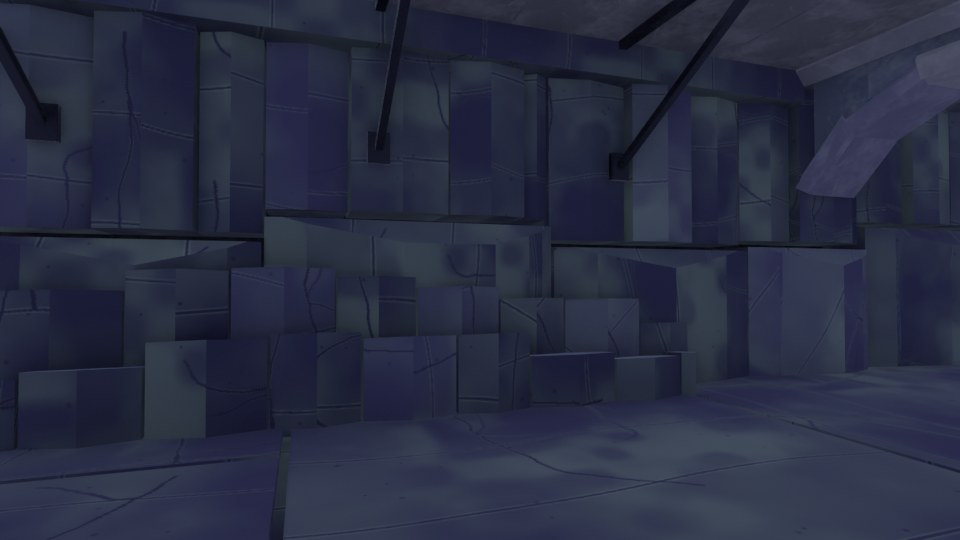
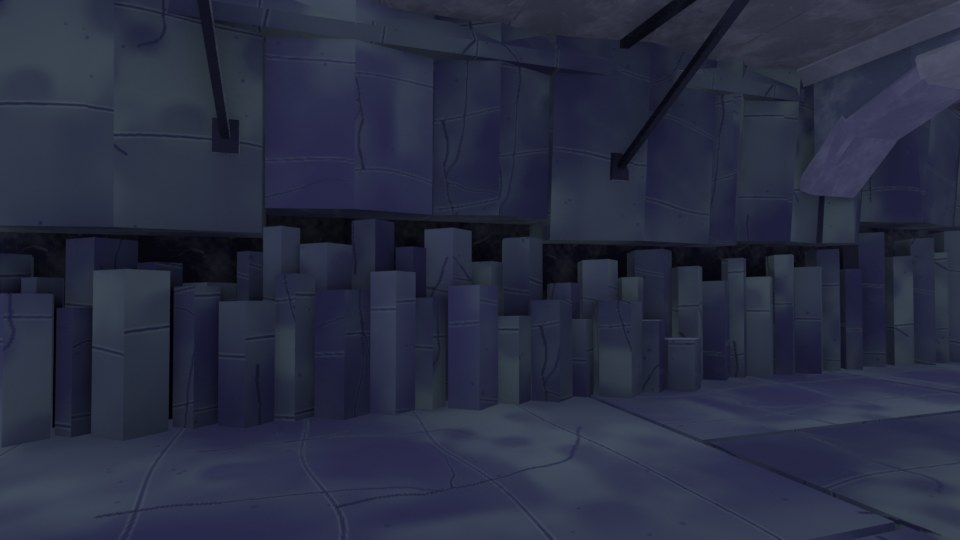
Ilha 3 finesse3: Salao Sombrio concluido (agente C)
Rocha, cantaria e remates em 3 valores que leem no modo Roblox; 6 luzes
com funcao (portal, forja, mapa, patamar, galeria, poco); abobada de
rocha em estratos e bolsas no lugar dos triangulos; faixa do jogador em
basalto colunar de prismas pentagonais com topos em degraus e juntas
escuras; arcos-diafragma ancorados; caracol e escadaria com degraus de
pedra, focinho e espelho escuro; guarda-corpo de pedra e madeira; forja,
sala do mapa, portal em 3 camadas e base secreta com funcao. Zona cave
69.858/70.000 tris; build OK (ilha 869.427 tris) e QA verde.

Claude-Session: https://claude.ai/code/session_012BgKANZEUaMLtrqiobzfLM

diff --git a/ilha_shadowgarden/sg_cave.py b/ilha_shadowgarden/sg_cave.py
@@ -76,7 +76,8 @@ OB, MBK, BI, WD = "Stone_SG_Obsidian", "Stone_SG_MarbleBlack", "Metal_SG_BlackIr
 CL, PALE, GLW, CORE = "Cloth_SG_Purple", "Stone_SG_MoonPale", "Lantern_Glow", "SG_LampCore_Glow"
 VG, VGM, VOID, CRY, CRYG = ("SG_VioletDeep_Glow", "SG_VioletSoft_Glow", "SG_CaveVoid_Glow", "Crystal_SGCave",
                             "SG_VioletSoft_Glow")                           # Neon medio/escuro (nada claro: bloom)
-STRAW = "Plaster_SG"                                                        # palha dos bonecos de treino
+STRAW = "Dirt_SGGravel"                                                     # palha dos bonecos de treino (medio quente)
+PARCH = "Plaster_SG"                                                        # pergaminho dos rolos
 
 X0, Y0, X1, Y1 = L.CAVE
 ZF, ZT = L.CAVE_FLOOR, L.CAVE_TOP
@@ -416,7 +417,7 @@ WALLS = {"W": ((X0, Y0), (0.0, 1.0), (1.0, 0.0), Y1 - Y0), "E": ((X1, Y1), (0.0,
          "S": ((X1, Y0), (-1.0, 0.0), (0.0, 1.0), X1 - X0), "N": ((X0, Y1), (1.0, 0.0), (0.0, -1.0), X1 - X0)}
 BUNDLE_W = (12.4, 9.6, 14.8, 11.2, 16.0, 10.4, 13.6)   # feixes (ritmo dirigido)
 COL_W = (5.2, 3.4, 4.6, 2.9, 4.1, 3.6)                 # colunas dentro do feixe (larguras bem diferentes)
-COLW = (22.0, 29.6, 18.4, 26.0, 32.8, 20.2)            # massas altas
+COLW = (28.6, 38.5, 24.0, 33.8, 42.6, 26.3)            # massas altas (longe: poucas e grandes)
 ROW_HIGH = (13.4, 16.8, 14.6)
 Z_LOW, Z_HIGH, Z_ROCK_TOP = -13.5, 21.5, 43.4
 BACK = -3.4                                      # plano de fundo das fendas (atras da face da parede)
@@ -544,67 +545,108 @@ def col_prism(mb, side, a, b, pf, ridge, z0, z1, fm, tilt=0.0, pf_top=None):
     return 1
 
 
+# FAIXA DO JOGADOR (piso ate ~8, FINESSE 3 09.04 revisao): PRISMAS PENTAGONAIS de basalto encostados (aresta viva
+# para o salao: 2 faces de frente com luz diferente), diametros em MODULOS DIRIGIDOS de 1,2 a 2,4, topos em DEGRAUS de
+# 0,6 a 1,8 com a face de topo em Cliff_Rock_SG_Top (um valor acima do fuste) e algumas colunas RECUADAS 0,2 a 0,4: a
+# face lateral delas (Cliff_Rock_SG_Dark) e o V entre vizinhas fazem a junta escura. Sem bevel.
+DIAM = (1.9, 1.4, 2.3, 1.7, 2.1, 1.3, 2.4, 1.6, 2.0, 1.5, 2.2)
+HOFF = (0.0, 1.2, 0.3, 1.8, 0.6, 1.5, 0.0, 0.9, 1.7, 0.4, 1.1)     # degrau do topo (vizinhas diferem 0,6 a 1,8)
+REC = (0.0, 0.3, 0.0, 0.0, 0.4, 0.1, 0.0, 0.2, 0.0, 0.35, 0.0, 0.25, 0.0)   # recuo dirigido (junta escura)
+
+
+def pent_col(mb, side, sc, r, pf, z0, z1, fm, tilt=0.06):
+    """prisma PENTAGONAL de basalto com a aresta da frente em pf (para o salao), raio r, de z0 a z1 (topo inclinado
+    'tilt' para o fundo: a face de topo segue em Cliff_Rock_SG_Top)"""
+    if z1 - z0 < 0.6:
+        return 0
+    pc = pf - r
+    pts = []
+    for k in range(5):
+        a = 2.0 * math.pi * k / 5
+        s_, p_ = sc + r * math.sin(a), pc + r * math.cos(a)
+        pts.append(wall_pt(side, s_, p_, z0))
+        pts.append(wall_pt(side, s_, p_, z1 - tilt * (pf - p_)))
+    hull(mb, pts, RKD, fm)
+    return 1
+
+
+def pent_row(mb, side, s0, s1, k0, front, ztop, fm, z0=ZF - 0.3, rmax=9.0):
+    """fileira de prismas pentagonais encostados de s0 a s1; front(i, e) = aresta da frente, ztop(i, e) = topo
+    (e = 0..1, envelope do feixe); k0 = indice dirigido dos modulos"""
+    cols, s, k = [], s0, k0
+    while s < s1 - 0.6:
+        d = DIAM[k % len(DIAM)]
+        if s + d > s1:
+            d = s1 - s
+        cols.append((s + d / 2, d, k))
+        s, k = s + d, k + 1
+    n, nc = 0, len(cols)
+    for i, (sc, d, k) in enumerate(cols):
+        t = (i + 0.5) / nc * 2.0 - 1.0
+        e = 1.0 - abs(t) ** 1.6
+        r = min(d / 1.902, rmax)                      # o pentagono regular cobre d na tangente
+        n += pent_col(mb, side, sc, r, front(k, e), z0, ztop(k, e), fm)
+    return n
+
+
 def basalt_bundle(mb, side, bi, s0, s1, fm):
-    """FEIXE convexo de colunas: as do meio avancam ate a face de colisao, as pontas recuam 1,3; topos em degraus que
-    sobem para o meio; UMA diaclase (junta 0,4) continua no feixe, escalonada de feixe para feixe"""
+    """FEIXE: faixa baixa em prismas pentagonais encostados (ate a diaclase, ~ZF+5 a ZF+9,5) e, acima da diaclase,
+    colunas largas que sobem em degraus para o meio do feixe e se debrucam no alto"""
     if _skip(side, s0, s1):
         return 0
     ends = [wall_pt(side, s, 0.0, 0.0) for s in (s0, s1)]
     allow = min(p_allow(side, e.x, e.y, ZF + 1.0) for e in ends)      # na faixa do jogador
     zt_b = Z_HIGH - 1.0 + 4.0 * (_h(bi, 5, ord(side)) - 0.5)       # altura do feixe (18,5 .. 22,5)
     zj = ZF + 6.5 + 3.0 * _h(bi, 6, ord(side))                     # cota da diaclase
+    k0 = bi * 5 + ord(side)
+    mid = wall_pt(side, (s0 + s1) / 2, 0.0, 0.0)
+    if side in ("W", "E") and 131.0 < mid.y < 191.0:      # atras da fornalha/bancada e das estantes: so o fundo
+        hull(mb, [wall_pt(side, s, p_, z) for s in (s0, s1) for p_ in (BACK - 0.6, -0.4) for z in (ZF - 0.3, zj - 0.2)],
+             RKD, fm)
+        n = 1
+    else:
+        n = pent_row(mb, side, s0, s1, k0, lambda k, e: min(allow, 0.5) - 0.35 * (1.0 - e) - REC[k % len(REC)],
+                     lambda k, e: zj - 0.2 - HOFF[k % len(HOFF)], fm)
     cols, s, ci = [], s0, 0
     while s < s1 - 0.5:
-        w = COL_W[(ci + bi) % len(COL_W)]
+        w = COL_W[(ci + bi) % len(COL_W)] * 2.2                     # acima da diaclase: colunas largas (longe/alto)
+        if s1 - (s + w) < 2.0:
+            w = s1 - s
         cols.append((s, min(s1, s + w)))
         s, ci = s + w, ci + 1
-    n = 0
     nc = len(cols)
-    low = []
     for ci, (a, b) in enumerate(cols):
         t = (ci + 0.5) / nc * 2.0 - 1.0
         e = 1.0 - abs(t) ** 1.6
         pf = allow - 2.0 + 1.3 * e + 0.5 * (_h(ci, bi, 13) - 0.5)       # feixe convexo + saliencia propria
         ztop = zt_b + 2.6 * e + 0.9 * (_h(ci, bi, ord(side)) - 0.5)
         tilt = 0.12 + 0.1 * _h(ci, bi, 9)
-        for s, pp in ((a + 0.05, BACK - 0.6), (a + 0.05, pf + 0.3), ((a + b) / 2, pf + 0.75), (b - 0.05, pf + 0.3)):
-            low += [wall_pt(side, s, pp, ZF - 0.3), wall_pt(side, s, pp, zj - 0.2)]
-        a_top = min(p_allow(side, e.x, e.y, ztop) for e in ends) - 0.45     # a coluna se debruca onde a parede pode
-        n += col_prism(mb, side, a, b, pf - 0.3, 0.45, zj + 0.2, ztop, fm, tilt, min(a_top, pf + 5.5))
-    # BANCO macico sob a diaclase (um casco convexo por feixe, 0,3 mais saliente que as colunas, labio quebrado)
-    (ox, oy), tv, nv, ln = WALLS[side]
-    low = cut(low, Vector((nv[0], nv[1], 0.0)) + UPZ * 0.9, 0.7)
-    hull(mb, low, RKD, fm)
-    return n + 1
+        a_top = min(p_allow(side, e_.x, e_.y, ztop) for e_ in ends) - 0.45   # a coluna se debruca onde a parede pode
+        n += col_prism(mb, side, a, b, pf - 0.3, 0.9, zj + 0.2, ztop, fm, tilt, min(a_top, pf + 5.5))
+    return n
 
 
-# ORGAO DE BASALTO (a assinatura da ilha): 2 ordens de colunas NA FRENTE do feixe, descendo em degraus para o salao
-# (escada natural), onde o piso e livre. (lado, s0, s1, avanco maximo, altura)
+# ORGAO DE BASALTO (a assinatura da ilha): 2 fileiras de prismas pentagonais NA FRENTE da faixa, descendo em degraus
+# para o salao (escada natural), onde o piso e livre. (lado, s0, s1, avanco maximo, altura)
 ORGANS = [("S", 12.0, 32.0, 4.4, 10.5), ("S", 148.0, 168.0, 4.4, 9.5), ("N", 6.0, 40.0, 5.0, 12.0),
           ("N", 138.0, 172.0, 5.0, 11.0), ("W", 136.0, 178.0, 4.2, 9.0), ("E", 68.0, 110.0, 4.2, 9.0)]
 
 
 def basalt_organ(mb, side, s0, s1, pmax, hmax, gi, fm):
     n = 0
-    for r in (1, 2):
-        pf = 0.5 + 1.7 * r - 1.2
-        if pf + 0.45 > pmax:
-            continue
-        cols, s, ci = [], s0 + 0.9 * r, 0
-        while s < s1 - 0.9 * r - 0.5:
-            w = COL_W[(ci + gi + r) % len(COL_W)] * 0.92
-            cols.append((s, min(s1 - 0.9 * r, s + w)))
-            s, ci = s + w, ci + 1
-        nc = len(cols)
-        for ci, (a, b) in enumerate(cols):
-            t = (ci + 0.5) / nc * 2.0 - 1.0
-            e = 1.0 - abs(t) ** 1.5
-            h = hmax * (1.0 - 0.32 * r) * (0.55 + 0.45 * e) + 0.9 * (_h(ci, gi, r) - 0.5)
-            if h < 1.4:
-                continue
-            n += col_prism(mb, side, a, b, pf, 0.45, ZF - 0.3, ZF + h, fm, 0.1 + 0.08 * _h(ci, gi, 4))
+    # fileira 1: encostada na faixa (fundo do pentagono em 0,4), topos a ~0,62 da altura do orgao, em degraus
+    n += pent_row(mb, side, s0 + 0.6, s1 - 0.6, gi * 7 + 3,
+                  lambda k, e: 0.4 + 1.81 * DIAM[k % len(DIAM)] / 1.902 - 0.5 * REC[k % len(REC)],
+                  lambda k, e: ZF + hmax * (0.42 + 0.26 * e) - 0.8 * HOFF[k % len(HOFF)], fm)
+    # fileira 2: na frente da 1 (fundo em 2,5, mais baixa), sem passar do avanco maximo
+    rm = (pmax - 2.6) / 1.81
+    if pmax < 4.3:                                   # orgaos estreitos (W/E): so a fileira 1
+        rm = 0.0
+    n += 0 if rm <= 0.0 else pent_row(mb, side, s0 + 2.4, s1 - 2.4, gi * 7 + 8,
+                  lambda k, e: 2.5 + 1.81 * min(DIAM[k % len(DIAM)] / 1.902, rm) - 0.6 * REC[k % len(REC)],
+                  lambda k, e: ZF + hmax * (0.2 + 0.16 * e) - 0.5 * HOFF[k % len(HOFF)], fm, rmax=rm)
     a, b = wall_pt(side, s0, -1.0, 0.0), wall_pt(side, s1, pmax, 0.0)
-    col_box2("SG_CaveOrgan", (min(a.x, b.x), min(a.y, b.y), ZF), (max(a.x, b.x), max(a.y, b.y), ZF + hmax))
+    col_box2("SG_CaveOrgan", (min(a.x, b.x), min(a.y, b.y), ZF), (max(a.x, b.x), max(a.y, b.y), ZF + hmax * 0.7))
     return n
 
 
@@ -653,8 +695,8 @@ STRATA = [(Y0 - 6.0, 128.0, 33.5, 1.0), (128.0, 172.0, 37.0, -1.0), (172.0, 214.
           (214.0, 262.0, 36.0, -1.0), (262.0, Y1 + 6.0, 31.5, 1.0)]    # (y0, y1, cota da quilha, sinal do tombo)
 POCKETS = [(-52.0, 150.0, 15.0, 10.0, 3.6), (46.0, 236.0, 14.0, 11.0, 3.2), (-28.0, 246.0, 12.0, 9.0, 2.8),
            (24.0, 206.0, 16.0, 9.0, 4.2), (-10.0, 290.0, 13.0, 8.0, 3.0)]   # (x, y, lx, ly, profundidade)
-STAL = [(-52.0, 150.0, 4, 1.15), (46.0, 236.0, 4, 1.2), (-28.0, 246.0, 3, 1.0), (24.0, 206.0, 5, 1.25),
-        (-10.0, 290.0, 3, 0.95), (-40.0, 210.0, 3, 1.1), (60.0, 112.0, 3, 1.0), (-66.0, 108.0, 3, 1.05)]
+STAL = [(-52.0, 150.0, 3, 1.15), (46.0, 236.0, 3, 1.2), (-28.0, 246.0, 2, 1.0), (24.0, 206.0, 4, 1.25),
+        (-10.0, 290.0, 2, 0.95), (-40.0, 210.0, 3, 1.1), (60.0, 112.0, 2, 1.0), (-66.0, 108.0, 2, 1.05)]
 
 
 def _strat(y):
@@ -765,8 +807,7 @@ def ceiling():
             ring = lambda rad, z: [Vector((x + rad * math.cos(ph + q * math.pi / 3), y + rad * math.sin(ph + q * math.pi / 3), z))
                                    for q in range(6)]
             tip = Vector((x + 0.25 * r, y - 0.2 * r, z0 - Ls))
-            hull(mb, ring(r, z0 + 1.2) + ring(r * 0.62, z0 - Ls * 0.38), RKD, fm)
-            hull(mb, ring(r * 0.64, z0 - Ls * 0.36) + [tip], RKD)
+            hull(mb, ring(r, z0 + 1.2) + ring(r * 0.62, z0 - Ls * 0.38) + [tip], RKD, fm)
             ns += 1
     mb.finish()
     print("CAVE abobada: estratos %d, bolsas %d, estalactites %d" % (npc, len(POCKETS), ns))
@@ -856,8 +897,8 @@ def floor():
                    ((X0 - 2, PY0), (PX0, PY1)), ((PX1, PY0), (X1 + 2, PY1))):
         abox(mb, (p0[0], p0[1], ZF - 1.2), (p1[0], p1[1], ZF - 0.35), RK, 0.0)
     # lajes de rocha em fiadas irregulares (juntas desencontradas)
-    DEP = (16.0, 20.0, 14.5, 18.5, 22.0, 17.0)
-    WID = (17.0, 23.0, 15.0, 20.5, 25.0, 15.5, 19.5)
+    DEP = (19.0, 24.0, 17.5, 22.0, 26.0, 20.5)
+    WID = (20.5, 27.5, 18.0, 24.5, 30.0, 18.5, 23.5)
     y, r = Y0 - 1.0, 0
     npl = 0
     while y < Y1 + 1.0:
@@ -1170,16 +1211,16 @@ def tower(mb, ops):
         for ci, (z0, z1) in enumerate(zip(CZ, CZ[1:])):
             chb, cht = 0 < ci < 5, z1 < 43.9 and ci < 5
             if not o:
-                tower_piece(mb, a0, a1, z0, z0, z1, z1, chb, cht, vis)
+                tower_piece(mb, a0, a1, z0, z0, z1, z1, chb, cht, False)
                 npc += 1
                 continue
             c, h, sill, spring, rise, kind = o
             if sill > z0 + 0.05:
-                tower_piece(mb, a0, a1, z0, z0, min(z1, sill), min(z1, sill), chb, cht and sill >= z1, vis)
+                tower_piece(mb, a0, a1, z0, z0, min(z1, sill), min(z1, sill), chb, cht and sill >= z1, False)
                 npc += 1
             t0, t1 = _op_top(o, a0), _op_top(o, a1)
             if min(t0, t1) < z1 - 0.05:
-                tower_piece(mb, a0, a1, max(z0, t0), max(z0, t1), z1, z1, chb and max(t0, t1) <= z0, cht, vis)
+                tower_piece(mb, a0, a1, max(z0, t0), max(z0, t1), z1, z1, chb and max(t0, t1) <= z0, cht, False)
                 npc += 1
     # ---- molduras das aberturas (aduelas, ombreiras em cunhal e peitoril; 0,3 salientes e 0,15 para dentro do vao)
     for o in ops:
@@ -1307,14 +1348,14 @@ def spiral_stairs(ms, mi, ops):
         zb_ += 12.0
     prof += [(3.0, z_top - 2.8), (3.5, z_top - 2.2), (4.3, z_top - 1.0), (4.3, z_top), (0.0, z_top)]
     EM._lathe(ms, (TC[0], TC[1], 0.0), prof, RUIN, 8, math.pi / 8, caps=(True, False))
-    samples = [A0 + DA * 0.5 + (A1 - A0 - DA) * i / 64 for i in range(65)]
+    samples = [A0 + DA * 0.5 + (A1 - A0 - DA) * i / 48 for i in range(49)]
     band = [tp(a, 3.28, zr(a) + 2.9) for a in samples]
     ms.sweep(band, [(-0.22, -0.28), (0.22, -0.28), (0.22, 0.28), (-0.22, 0.28)], TRIM, True, None)
     # CORRIMAO de madeira no lado da parede sobre misulas de ferro (para antes do arco de saida; nas janelas vira guarda)
     rail_s = [a for a in samples if a <= 600.0]
     rail = [tp(a, 13.6, zr(a) + 3.1) for a in rail_s]
     mi.sweep(rail, [(-0.24, -0.14), (0.24, -0.14), (0.24, 0.14), (-0.24, 0.14)], WD, True, None)
-    for a in rail_s[::4]:
+    for a in rail_s[::3]:
         th = a % 360.0
         z = zr(a)
         o = _op_at(ops, th)
@@ -1539,8 +1580,8 @@ def gallery():
         for k in range(nv):
             pts, (xc, zc, R) = seg_arch_pts(xa, xb, -1.5, rise, 1.3, ya, yb, k, nv)
             hull(mg, pts, TRIM if k == nv // 2 else RUIN)
-        for k in range(5):                                                        # timpano ate a laje
-            x0_, x1_ = xa + span * k / 5, xa + span * (k + 1) / 5
+        for k in range(3):                                                        # timpano ate a laje
+            x0_, x1_ = xa + span * k / 3, xa + span * (k + 1) / 3
             zz = [zc + math.sqrt(max(0.0, (R + 1.3) ** 2 - (xx - xc) ** 2)) - 0.2 for xx in (x0_, x1_)]
             if min(zz) >= zb - 0.05:
                 continue
@@ -1619,9 +1660,9 @@ def grand_stair():
 def cloth_banner(mc, mp, x, y, ztop, w=5.0, h=12.5, seed=0):
     """estandarte RASGADO da ordem (so o crescente): pano ondulado com espessura, barra de baixo rasgada em pontas de
     comprimentos diferentes e um rasgo lateral; crescente palido (sem brilho) no terco de cima; verga de ferro"""
-    nx, nz = 5, 7
+    nx, nz = 4, 5
     th = 0.12
-    tear = [0.86, 0.97, 0.78, 1.0, 0.9, 0.83]            # comprimento de cada coluna (rasgado)
+    tear = [0.86, 0.97, 0.78, 1.0, 0.9]                  # comprimento de cada coluna (rasgado)
     tear = tear[seed % 2:] + tear[:seed % 2]
     F, Bk = [], []
     bm = mc.bm
@@ -1673,7 +1714,7 @@ def walkways():
                 abox(mw, (xa + 0.1, y + 0.08, zg - 0.78), (xb - 0.1, y2 - 0.08, zg), PAV if k % 2 else PAVB, 0.0,
                      cuts=[((-s, 0, 1), 0.1)])
             # misula de ferro (juntas alternadas): viga sob a laje + escora diagonal ate a rocha
-            if k % 2:
+            if k % 3:
                 y, k = y2, k + 1
                 continue
             obox3(mw, Vector(((xw + xi) / 2, y, zg - 0.95)), Vector((1, 0, 0)), Vector((0, 1, 0)), UPZ, 10.0, 0.45,
@@ -2064,7 +2105,7 @@ def forge():
 # ==================================================================== SALA DO MAPA (leste)
 def scroll(mb, c, ax, ln, r=0.36):
     """rolo de pergaminho com as pontas em cone (nada de bolota)"""
-    lathe_ax(mb, c, ax, [(0.0, 0.0), (r, 0.18), (r, ln - 0.18), (0.0, ln)], PALE, 5)
+    lathe_ax(mb, c, ax, [(0.0, 0.0), (r, 0.18), (r, ln - 0.18), (0.0, ln)], PARCH, 5)
 
 
 def map_relief(mb, cx, cy, ztop, s):
@@ -2390,7 +2431,7 @@ CAMS = {
     "CAM_SGCave_Overview": ((50.0, 294.0, 24.0), (-12.0, 150.0, -6.0), 13),
     "CAM_SGCave_TowerFromFloor": ((34.0, 262.0, ZF + 5.2), (0.0, 318.0, 14.0), 14),
     # FINESSE 3: vistas das cenas novas (olho a 5,5)
-    "CAM_SGCave_Treino": ((-22.0, 240.0, ZF + 5.5), (-42.0, 258.0, ZF + 3.0), 20),
+    "CAM_SGCave_Treino": ((-56.0, 236.0, ZF + 5.5), (-36.0, 258.0, ZF + 3.0), 20),
     "CAM_SGCave_Armaria": ((-20.0, 306.0, ZF + 5.5), (-36.0, 326.0, ZF + 3.0), 20),
     "CAM_SGCave_Conselho": ((24.0, 244.0, ZF + 5.5), (40.0, 257.0, ZF + 2.5), 20),
 }
